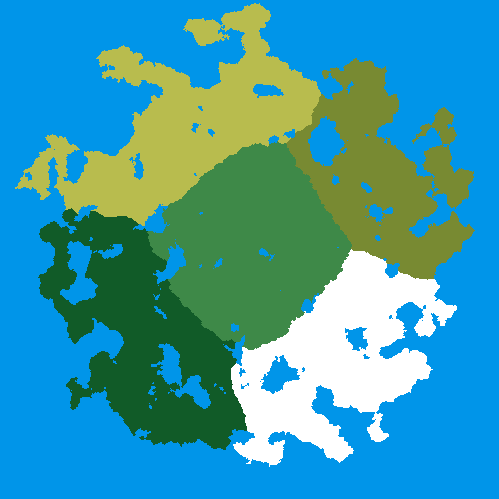
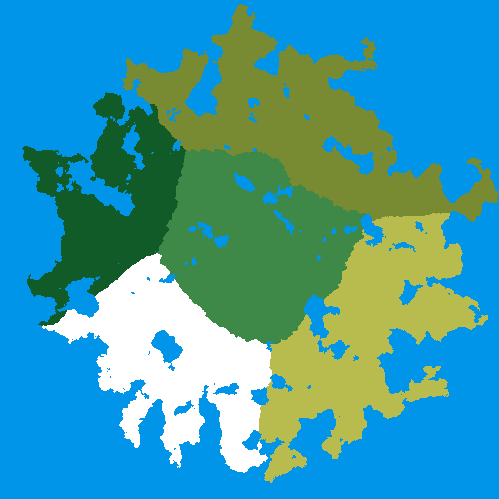
m3 submission

diff --git a/src/map/map_system.cpp b/src/map/map_system.cpp
@@ -170,7 +170,7 @@ void MapSystem::update_background_music(entt::registry& reg, entt::entity ent) {
             break;
     }
 
-    MusicSystem::playMusic(newTrack, -1, 500);
+    MusicSystem::playMusic(newTrack);
 }
 
 /*

diff --git a/README.md b/README.md
@@ -2,20 +2,15 @@
 
 _Follow the hyperlinks to see the code location_
 
-
-| #  | Category          | Task                    | Description | 
-| -- | :---------------- | :---------------------- | --- |
-| 1  | Improved Gameplay | Improved game AI        | Improved game AI that implements a [state machine](https://github.students.cs.ubc.ca/CPSC427-2024W-T2/team-12/blob/87a684c1792c4ab42234316c03345ef1b10a955c/src/ai/ai_initializer.cpp#L8C1-L13C2) for enemies. Enemies have several different states now including idle, chasing, and attacking. The state machine handles transitions based on game stimuli, like whether or not the player is within a certain distance. This is implemented through a modular [transition table](https://github.students.cs.ubc.ca/CPSC427-2024W-T2/team-12/blob/87a684c1792c4ab42234316c03345ef1b10a955c/src/ai/ai_initializer.cpp#L15C1-L73C2) for easy extension and future use. Also implemented [improved spawning](https://github.students.cs.ubc.ca/CPSC427-2024W-T2/team-12/blob/87a684c1792c4ab42234316c03345ef1b10a955c/src/ai/enemy_definition.hpp#L18C1-L50C3) that allows for spawn probability, as well as group spawning. |
-| 2  | Improved Gameplay | Sprite animation        | Improved on previous iteration of sprite animation by implementing new [animation system](https://github.students.cs.ubc.ca/CPSC427-2024W-T2/team-12/blob/87a684c1792c4ab42234316c03345ef1b10a955c/src/animation/animation_manager.hpp#L10C1-L24C44). Allows for animating sprites based on [spritesheet textures](https://github.students.cs.ubc.ca/CPSC427-2024W-T2/team-12/blob/87a684c1792c4ab42234316c03345ef1b10a955c/src/animation/animation_definition.hpp#L6C1-L18C3). Computes [UV coordinates within a spritesheet](https://github.students.cs.ubc.ca/CPSC427-2024W-T2/team-12/blob/87a684c1792c4ab42234316c03345ef1b10a955c/shaders/textured.vs.glsl#L16C1-L41C2) to get the correct animations. |
-| 3  | Improved Gameplay | Assets                  | Added additional assets including [trees and shrubbery](data/textures/terrain/tree.png) depending on the terrain beneath the decoration. Also added an additional enemy type: [the blue goblin](data/textures/mob/goblin_torch_blue.png). |
-| 4  | Improved Gameplay | Mesh-based collisions   | Implemented separating-axis theorem-based collisions (SAT). This allows each hitbox to be represented by an [arbitrary number of points in 2D space](https://github.students.cs.ubc.ca/CPSC427-2024W-T2/team-12/blob/580fc5d5e6fcffa7fef8c1cb0c1f6615da54cbef/src/collision/hitbox.hpp#L13C1-L16C3). Collisions are detected when there does not exist a surface-normal axis in which the two hitbox's projections [do not have overlap](https://github.students.cs.ubc.ca/CPSC427-2024W-T2/team-12/blob/580fc5d5e6fcffa7fef8c1cb0c1f6615da54cbef/src/collision/hitbox.cpp#L60C1-L76C17). Collision resolution is handled on a [case-by-case basis](https://github.students.cs.ubc.ca/CPSC427-2024W-T2/team-12/blob/580fc5d5e6fcffa7fef8c1cb0c1f6615da54cbef/src/collision/collision_system.cpp#L56-L139) depending on the entity and component types. Each hitbox only supports a single convex shape. One particularly interesting hitbox is the [octagonal projectile](https://github.students.cs.ubc.ca/CPSC427-2024W-T2/team-12/blob/fd864c020032347dffc84bb93b2906740dec833d/src/world_init.cpp#L346C2-L354C4). <br><br> Projectiles do not collide with trees to make gameplay more fun and easier. Mobs can walk through the ship, water, and trees right now (intended) until they have improved pathfinding. |
-| 5  | Improved Gameplay | Gameplay tutorial       | The game provides an interesting gameplay tutorial with a [UI textbox](data/textures/textBackground/textbox.png) telling the user how to progress. This tutorial seamlessly fits within the style of the game. The tutorial steps progress with the user's actions. The tutorial guides the user in how to [move](https://github.students.cs.ubc.ca/CPSC427-2024W-T2/team-12/blob/87a684c1792c4ab42234316c03345ef1b10a955c/src/flag_system.hpp#L44C9-L63C10), how to [shoot](https://github.students.cs.ubc.ca/CPSC427-2024W-T2/team-12/blob/87a684c1792c4ab42234316c03345ef1b10a955c/src/flag_system.hpp#L86C1-L91C10) projectiles, how to [access](https://github.students.cs.ubc.ca/CPSC427-2024W-T2/team-12/blob/87a684c1792c4ab42234316c03345ef1b10a955c/src/flag_system.hpp#L74C2-L85C10) the ship upgrade UI, and what to do to explore the game. |
-| 6  | Improved Gameplay | Frame-rate counter      | [Frame-rate counter](https://github.students.cs.ubc.ca/CPSC427-2024W-T2/team-12/blob/580fc5d5e6fcffa7fef8c1cb0c1f6615da54cbef/src/main.cpp#L102C3-L111C4) is always visible in the game window title. |
-| 7  | Playability       | 2-minute gameplay       | Explore the custom randomly-generated island, and defeat blue goblins along the way. Reach the furthest corners of the map to encounter and defeat the 4 boss enemies stationed around the map. |
-| 8  | Stability         | Minimal lag             | The game experiences minimal lag. Largest fluctuations come from text rendering, but the gameplay experience is still smooth and is not hindered whatsoever. Windows users are recommended to run on the release configuration (we noticed improvement in FPS performance this way). |
-| 9  | Stability         | Crashes and glitches    | The game experiences no crashes or game-breaking glitches. |
-| 10 | Software Eng.     | Test plan               | See the [test plan](doc/test-plan.md) for more details. |
-| 11 | Reporting         | Bug list                | See the [bug list](doc/bug-report.csv) for more details. |
-| 12 | Reporting         | Demonstration video     | See the demo video for more details.                                                                                                                                 |
-| 13 | Creative Element  | Audio feedback          | Created a new [music system](src/music_system.hpp) that manages setup, playing, and cleanup of SFX and background music resources. Background music added, and [SFX](https://github.students.cs.ubc.ca/CPSC427-2024W-T2/team-12/blob/580fc5d5e6fcffa7fef8c1cb0c1f6615da54cbef/src/music_system.hpp#L22C1-L26C39) added for many actions including [menu interactions](https://github.students.cs.ubc.ca/CPSC427-2024W-T2/team-12/blob/580fc5d5e6fcffa7fef8c1cb0c1f6615da54cbef/src/world_system.cpp#L516C1-L531C3), [shooting](https://github.students.cs.ubc.ca/CPSC427-2024W-T2/team-12/blob/580fc5d5e6fcffa7fef8c1cb0c1f6615da54cbef/src/world_system.cpp#L537C1-L543C3), taking or dealing [damage](https://github.students.cs.ubc.ca/CPSC427-2024W-T2/team-12/blob/580fc5d5e6fcffa7fef8c1cb0c1f6615da54cbef/src/collision/collision_system.cpp#L66C1-L69C41), and interacting with [items](https://github.students.cs.ubc.ca/CPSC427-2024W-T2/team-12/blob/580fc5d5e6fcffa7fef8c1cb0c1f6615da54cbef/src/ui_system.cpp#L115). |
-| 14 | Creative Element  | Basic integrated assets | Created a title screen including a [game logo](data/textures/title/screen.png), and several pixel-art [UI buttons](data/textures/title/) using software tool Aseprite. Also implemented a [python script](scripts/paint.py) to retexture our assets to conform to a consistent palette.  |
+| #   | Category         | Task                                 | Description                                                                                                                                                                                                                                                                                                                                                                                                                                                                                                                                                                                                                                                                                                                                                     |
+| --- | :--------------- | :----------------------------------- | --------------------------------------------------------------------------------------------------------------------------------------------------------------------------------------------------------------------------------------------------------------------------------------------------------------------------------------------------------------------------------------------------------------------------------------------------------------------------------------------------------------------------------------------------------------------------------------------------------------------------------------------------------------------------------------------------------------------------------------------------------------- |
+| 1   | Playability      | 5 minutes of non-repetitive gameplay | Substantial changes were made to improve the gameplay. Added [additional items](LINK) including iron and copper materials. Added [ship upgrades](LINK) with resource requirements to add more gameplay progression. Added 5 distinct [biomes](LINK), with different background tracks, so the island is more interesting for the player to explore. Added a simple [day-night cycle](LINK) to add more interesting gameplay, and required skill to fight enemies in the night in the wilderness, or camping out by the ship for protection. Improved on the [text rendering system](LINK) to allow for more text on screen without performance degradation, to allow for us to build on our story, and make the gameplay experience more seamless for the user. |
+| 2   | Robustness       | Memory management                    | The game handles all memory leaks and cleans up unused memory. The user can use the 'R' key to restart the game as provided in the game template.                                                                                                                                                                                                                                                                                                                                                                                                                                                                                                                                                                                                               |
+| 3   | Robustness       | Handle all user input                | Tested a variety of user input and no game crashes or unexpected behaviour. There is one noted bug with user input when tabbing out of the window; see the bug list for more details.                                                                                                                                                                                                                                                                                                                                                                                                                                                                                                                                                                           |
+| 4   | Robustness       | Real-time gameplay                   | Depending on the hardware, the game consistently runs above 120FPS, even under the most intensive of game conditions. This has been tested through fighting many enemies at once, having multiple items on the ground, and shooting many projectiles. The game performs well.                                                                                                                                                                                                                                                                                                                                                                                                                                                                                   |
+| 5   | Stability        | Bugs, crashes, resolution            | The game has a consistent and constant resolution across all displays. No crashes or glitches are present.                                                                                                                                                                                                                                                                                                                                                                                                                                                                                                                                                                                                                                                      |
+| 6   | Software Eng.    | Test plan                            | See the [test plan](doc/test-plan.md) for more details.                                                                                                                                                                                                                                                                                                                                                                                                                                                                                                                                                                                                                                                                                                         |
+| 7   | Reporting        | Bug list                             | See the [bug list](doc/bug-report.csv) for more details.                                                                                                                                                                                                                                                                                                                                                                                                                                                                                                                                                                                                                                                                                                        |
+| 8   | Reporting        | Demonstration video                  | See the demo video for more details.                                                                                                                                                                                                                                                                                                                                                                                                                                                                                                                                                                                                                                                                                                                            |
+| 9   | Creative Element | Advanced decision-making             | @STEVE todo talk about a\*. You can talk also about that enemies still walk through trees on purpose for gameplay fun-ness...                                                                                                                                                                                                                                                                                                                                                                                                                                                                                                                                                                                                                                   |
+| 10  | Creative Element | Precise collisions                   | @PHILLIP todo talk about collisions with arbitrary polygons with sat (the projectile is a non-trivial convex octagon). Talk about fast collision detection with quad-trees (also used for rendering), and give an estimate on performance improvements                                                                                                                                                                                                                                                                                                                                                                                                                                                                                                          |

diff --git a/doc/test-plan.md b/doc/test-plan.md
@@ -13,14 +13,74 @@ With each milestone, we will add additional controls as necessary
 - Gameplay:
   - When near the ship, press "f" to toggle the ship UI
   - Left click items in the inventory to consume them
+  - @PRANAV todo include controls on how to use the inventory
 - Utility:
   - Press "r" to restart the game
-  - Press buttons 1-6 to change the background music track
-  - Press "esc" to pause the game and view the title screeen 
+  - Press "esc" to pause the game and view the title screeen
+  - Press "enter" to skip the tutorial
+
+# Milestone 3
+
+## Actions
+
+_All of the below actions from previous milestones and..._
+
+- **Traverse the island**:
+
+  - Explore the 5 unique biomes. See their differences in tileset, and the different types of tress that grow in these biomes.
+  - Notice the differences in music track for each of the biomes.
+  - If you have explored long enough, notice the screen darkens to simulate a day-night cycle
+
+- **Fight the enemies**:
+
+  - @STEVE todo add something about noticing how enemies dont go in water, how they still (intentionally) pass through trees for gameplay sake (and how that makes a noise now)
+  - @STEVE todo also talk about the a\* path finding of course
+  - @PRANAV/FRANK todo talk about the new items dropped by the enemies, at different rates, and how boss drops many items
+
+- **Performance testing**:
+
+  - View the FPS in the window title caption
+  - @PHILLIP todo talk about how the FPS is good because of quadtree. talk about how no matter the entities on the screen, we only render whats on screen/process stuff nearby in the quadtree, so we have good FPS
+
+- **UI**
+  - Follow the instructions in the tutorial to learn how to play the game, the main objective, and some backstory about the setting
+  - @FRANK todo talk about ship upgrades and how it costs materials to do them
+  - @PRANAV todo talk about the inventory system, how to stack items and whatnot, and how to open the inventory
+
+# Milestone 2
+
+## Actions
+
+_All of the below actions from previous milestones and..._
+
+- **Traverse the island**:
+
+  - Notice the new trees and shrubbery. Trees spawn on grass tiles, and cacti spawn on sand tiles
+  - Run around to see different enemy types including blue goblins (periodically spawn), and boss enemies (found at the far corners of the map)
+  - Walk into different obstacles including water, trees/cacti, and the ship to see the collision detection
+
+- **Fight the enemy**:
+
+  - Experiment with running to and away the blue goblins to see their AI state transitions
+  - Observe that enemies spawn at set intervals randomly around the player, up to a certain mob cap
+  - Notice that enemies can spawn in groups/hoardes instead of individually
+  - Travel to all corners of the map to find and defeat the 4 boss enemies
+
+- **Performance testing**:
+
+  - View the FPS in the window title caption
+  - Shoot many projectiles, and observe as the FPS will stay relatively constant
+  - Leave the game on for an extended period of time (i.e. 5 minutes). Observe that the performance does not degrade
+
+- **UI**:
+  - Follow the prompts on screen during the tutorial to learn how to play the game
+  - Notice that the tutorial changes state after succesfully completing a stage
+  - Press "f" near the ship to view the ship upgrade UI (ship upgrades coming in a future milestone)
+  - Press "esc" to pause the game and view the title screen UI. Load and save functionality coming in a future milestone.
 
 # Milestone 1
 
-# Actions
+## Actions
 
 - **Traverse the island**:
 
@@ -48,31 +108,3 @@ With each milestone, we will add additional controls as necessary
   - View the FPS in the window title caption
   - Shoot many projectiles, and observe as the FPS will stay relatively constant
   - Leave the game on for an extended period of time (i.e. 5 minutes). Observe that the performance does not degrade
- 
-# Milestone 2
-
-# Actions
-
-_All of the above actions from previous milestones and..._
-
-- **Traverse the island**:
-  - Notice the new trees and shrubbery. Trees spawn on grass tiles, and cacti spawn on sand tiles
-  - Run around to see different enemy types including blue goblins (periodically spawn), and boss enemies (found at the far corners of the map)
-  - Walk into different obstacles including water, trees/cacti, and the ship to see the collision detection
-
-- **Fight the enemy**:
-  - Experiment with running to and away the blue goblins to see their AI state transitions
-  - Observe that enemies spawn at set intervals randomly around the player, up to a certain mob cap
-  - Notice that enemies can spawn in groups/hoardes instead of individually
-  - Travel to all corners of the map to find and defeat the 4 boss enemies
-
-- **Performance testing**:
-  - View the FPS in the window title caption
-  - Shoot many projectiles, and observe as the FPS will stay relatively constant
-  - Leave the game on for an extended period of time (i.e. 5 minutes). Observe that the performance does not degrade
- 
-- **UI**:
-  - Follow the prompts on screen during the tutorial to learn how to play the game
-  - Notice that the tutorial changes state after succesfully completing a stage
-  - Press "f" near the ship to view the ship upgrade UI (ship upgrades coming in a future milestone)
-  - Press "esc" to pause the game and view the title screen UI. Load and save functionality coming in a future milestone.
